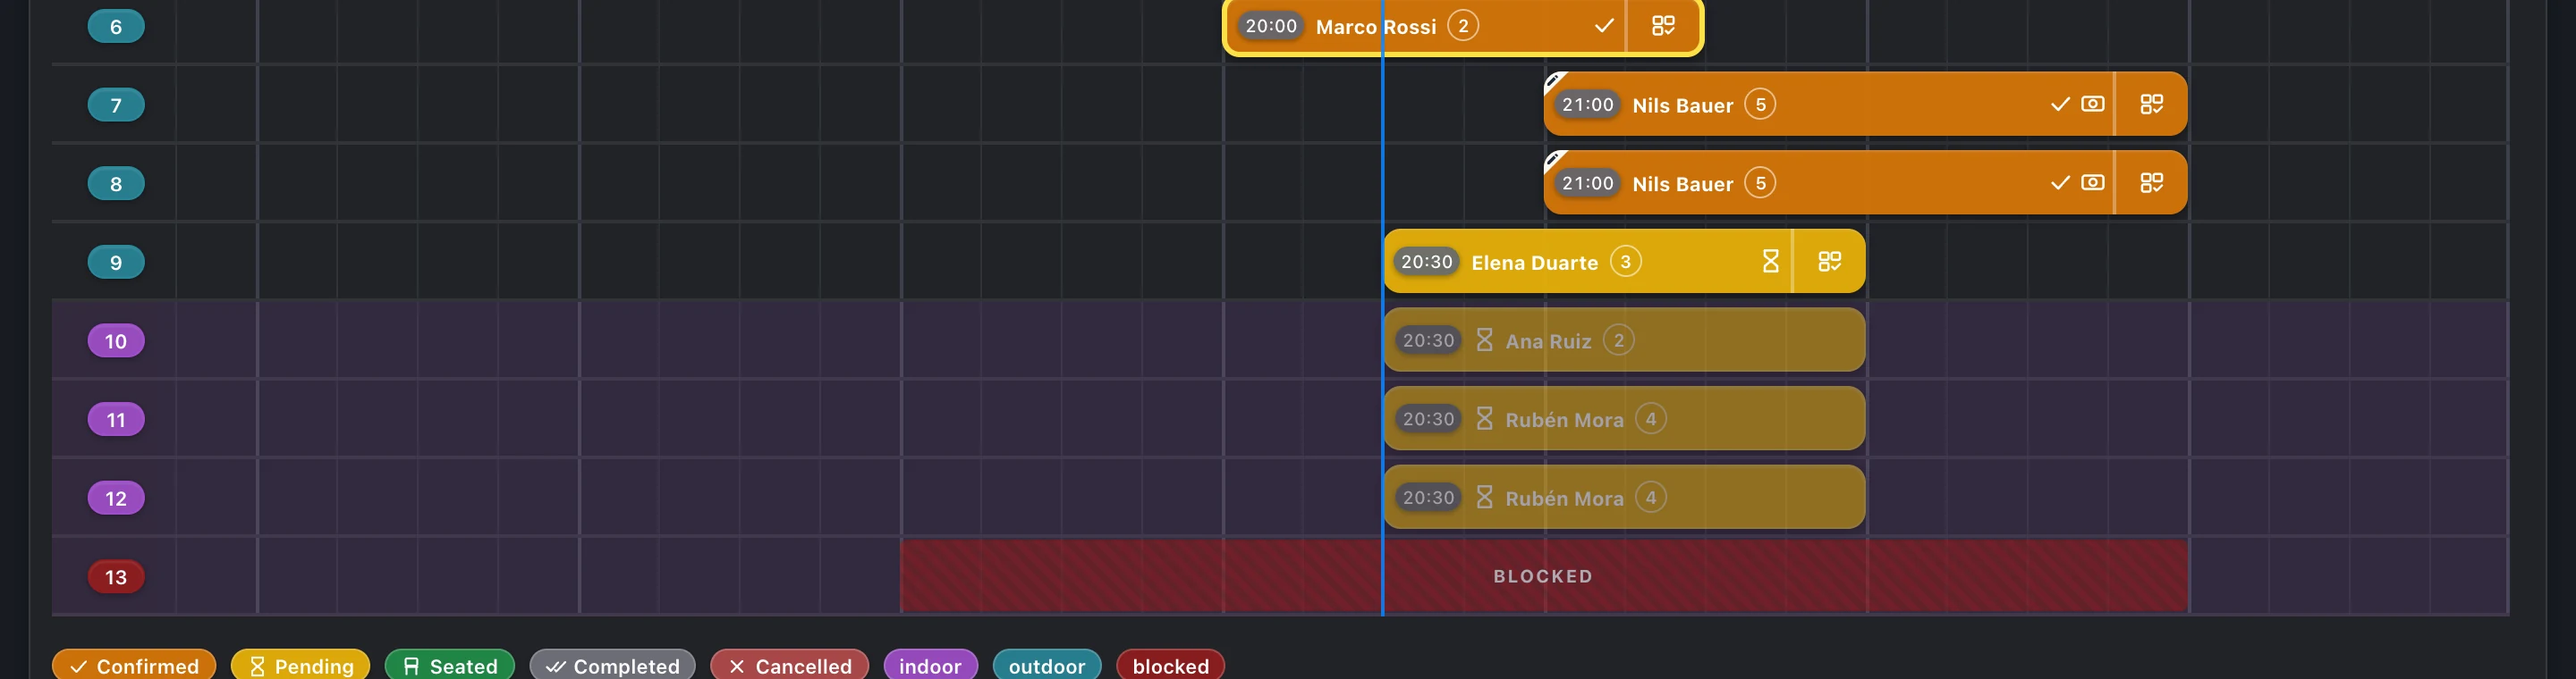
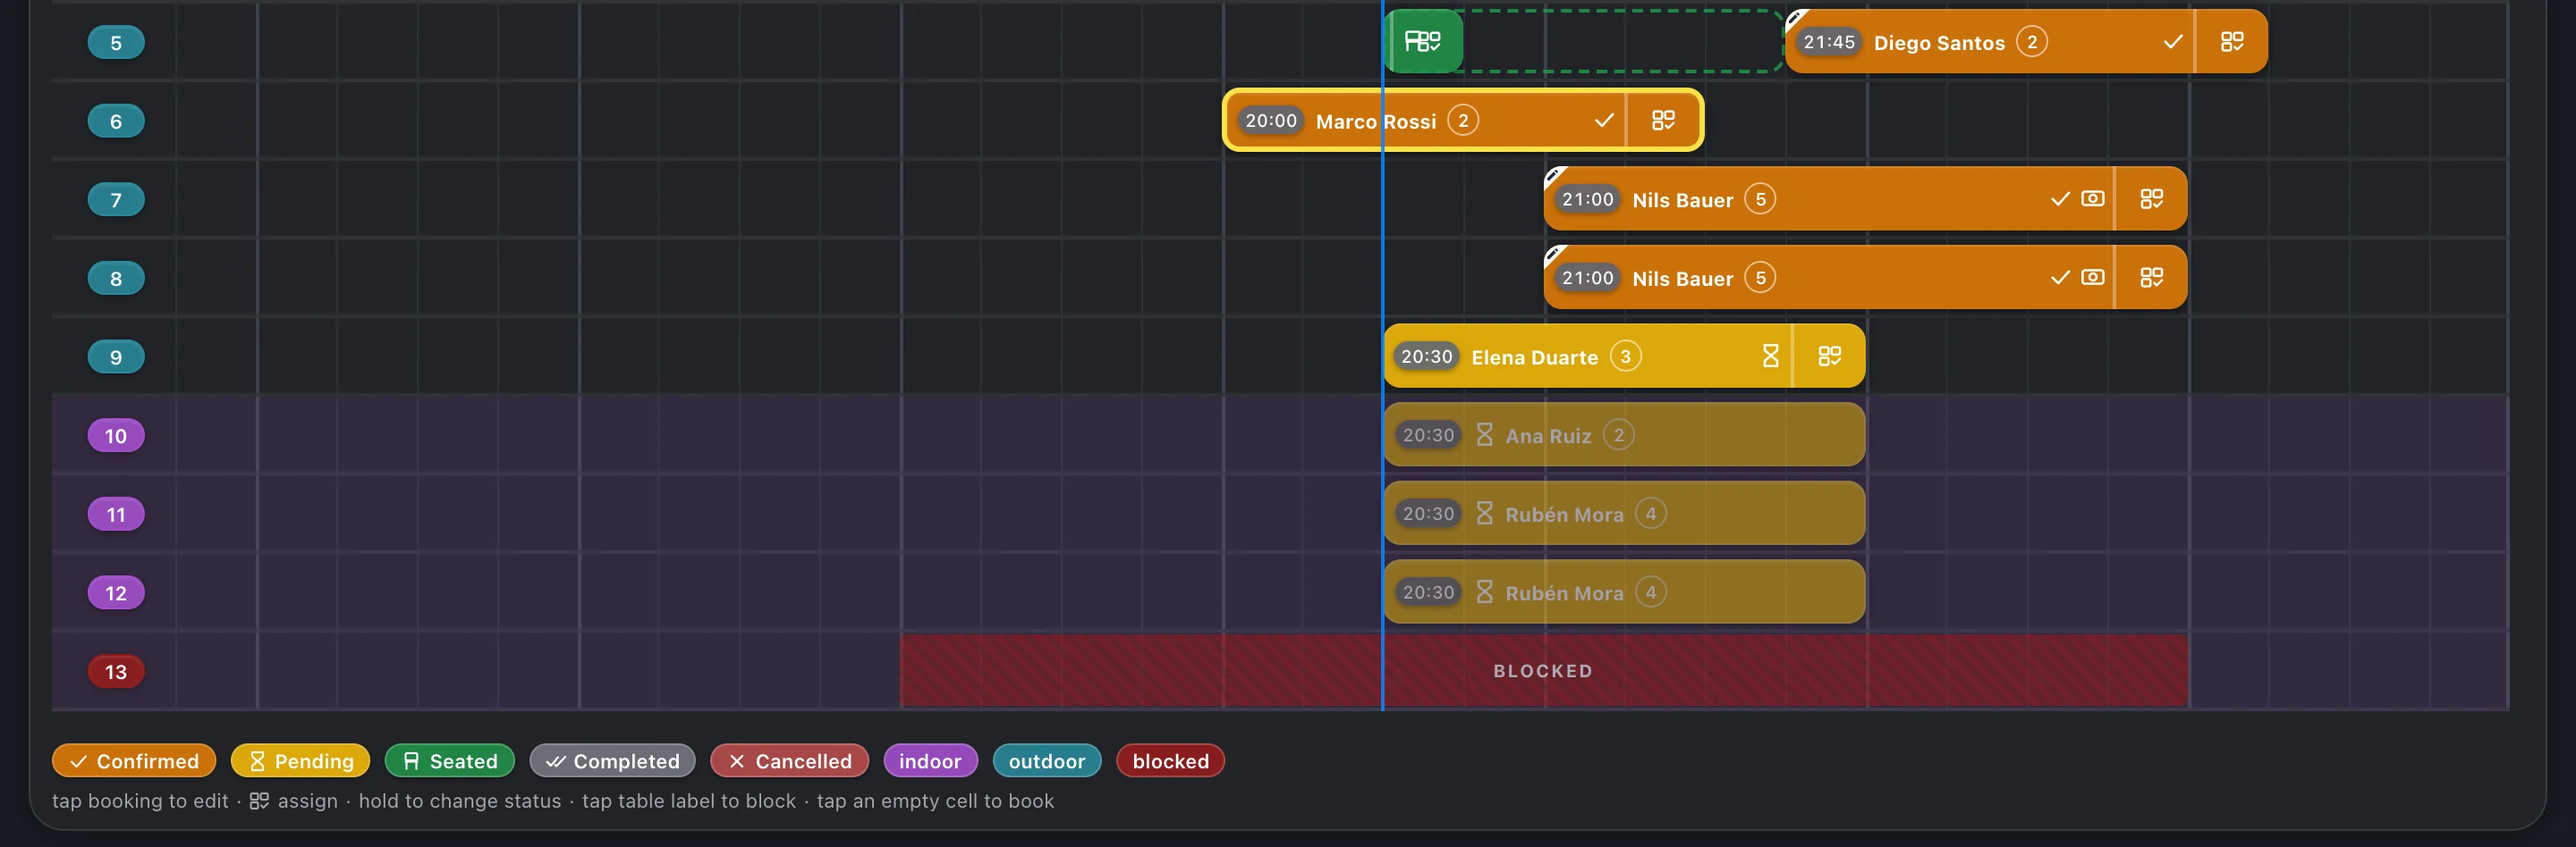
Re-frame the Not on the grid, Waitlist ghosts and Turnaround slides
Not on the grid now spans the full card width, so the Unplaced label
and every Assign, Book and dismiss button are in frame. Waitlist ghosts
shows tables 5 to 13 down to the hint line, and Turnaround's bottom
moves below the hint line, so neither cuts through the legend. The DEV
waitlist (Ana Ruiz, Rubén Mora) was re-seeded first, since Saturday's
clock had cleared it.

diff --git a/index.html b/index.html
@@ -187,8 +187,8 @@
                       data-label="Turnaround · the table held between sittings"
                       data-alt="Close-up of a few timeline rows with the separation-between-bookings setting on: each block draws a paler tail past its end time, reserving turnaround the optimiser refuses to seat into"
                       aria-label="Turnaround · the table held between sittings">
-                      <img class="light-only" src="assets/bk-turnaround-light.webp" alt="" width="1440" height="692" loading="lazy" />
-                      <img class="dark-only" src="assets/bk-turnaround-dark.webp" alt="" width="1440" height="692" loading="lazy" />
+                      <img class="light-only" src="assets/bk-turnaround-light.webp" alt="" width="1440" height="732" loading="lazy" />
+                      <img class="dark-only" src="assets/bk-turnaround-dark.webp" alt="" width="1440" height="732" loading="lazy" />
                     </button>
                     <button type="button" class="thumb"
                       data-light="assets/bk-clash-light.webp"
@@ -205,8 +205,8 @@
                       data-label="Not on the grid · bookings no table could take"
                       data-alt="The notification strip open on Not on the grid, naming two bookings: Rita Nowak (table 5B isn&#39;t in the layout) and Camilo Rey (no table assigned), each with an Assign button, and the waitlist&#39;s two parties whose table is free, each with Book; below, the timeline draws both in an Unplaced row above table 1"
                       aria-label="Not on the grid · bookings no table could take">
-                      <img class="light-only" src="assets/bk-unplaced-light.webp" alt="" width="1360" height="678" loading="lazy" />
-                      <img class="dark-only" src="assets/bk-unplaced-dark.webp" alt="" width="1360" height="678" loading="lazy" />
+                      <img class="light-only" src="assets/bk-unplaced-light.webp" alt="" width="1430" height="662" loading="lazy" />
+                      <img class="dark-only" src="assets/bk-unplaced-dark.webp" alt="" width="1430" height="662" loading="lazy" />
                     </button>
                     <button type="button" class="thumb"
                       data-light="assets/bk-notify-light.webp"
@@ -583,8 +583,8 @@
                       data-label="Waitlist ghosts · where a waiting party would fit"
                       data-alt="A few timeline rows with a waiting party drawn as a pale ghost block on the table and time it could be seated at"
                       aria-label="Waitlist ghosts · where a waiting party would fit">
-                      <img class="light-only" src="assets/bk-ghost-light.webp" alt="" width="1440" height="380" loading="lazy" />
-                      <img class="dark-only" src="assets/bk-ghost-dark.webp" alt="" width="1440" height="380" loading="lazy" />
+                      <img class="light-only" src="assets/bk-ghost-light.webp" alt="" width="1440" height="474" loading="lazy" />
+                      <img class="dark-only" src="assets/bk-ghost-dark.webp" alt="" width="1440" height="474" loading="lazy" />
                     </button>
                     <button type="button" class="thumb"
                       data-light="assets/bk-assign-light.webp"
